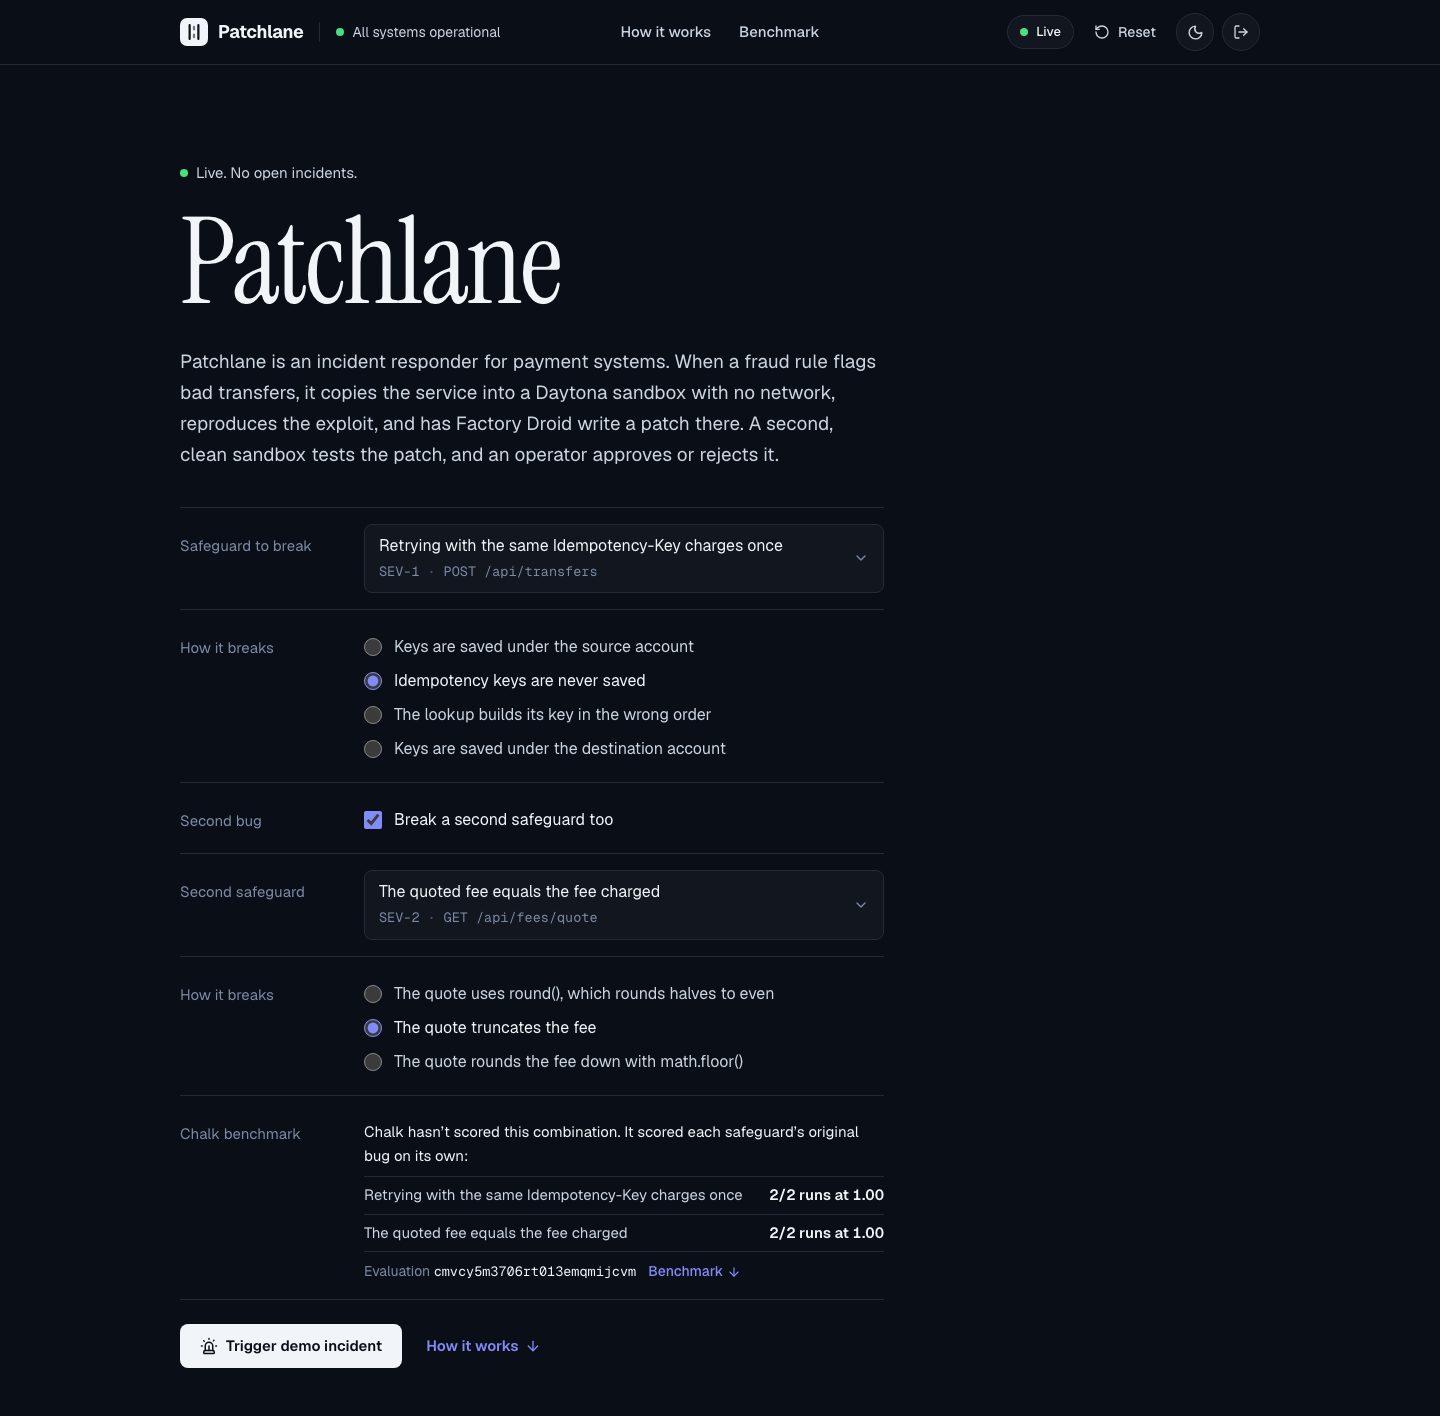
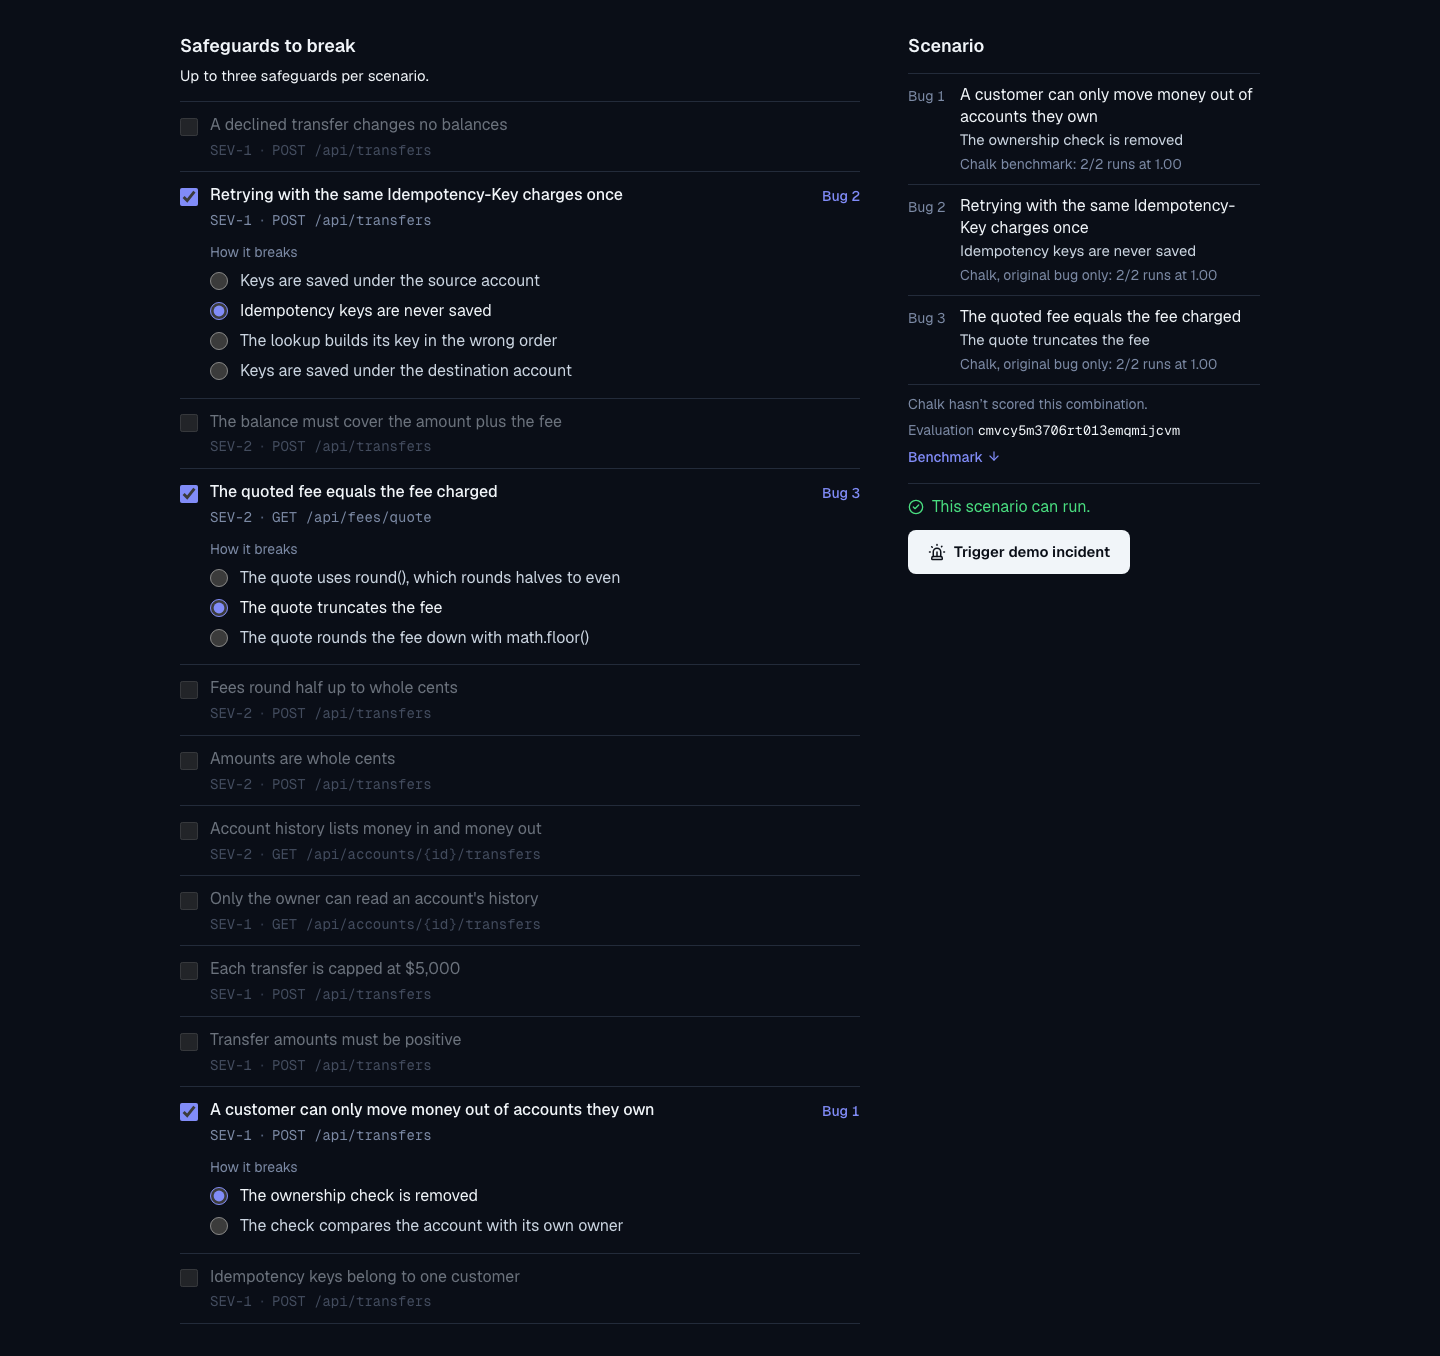
Document scenarios in the README with screenshots from a real run
The README describes the scenario checklist, how validate_scenarios.py
decides what can run, and the real-run results for pairs and sets of
three. New screenshots show the builder with three bugs, a refused
scenario with its reason, and a real three-bug incident waiting for
approval.

diff --git a/README.md b/README.md
@@ -158,32 +158,48 @@ Droid only sees the symptom, the evidence lines and the failing test. Seven of t
 
 </details>
 
-Beyond the original twelve bugs, there are 22 other ways to break the same safeguards (see [Build your own incident](#build-your-own-incident)). Each went through the same pipeline twice without Chalk scoring. 43 of the 44 runs verified with the fix in the right file. The other stopped when a Daytona command hung for more than 125 seconds. A sample of 12 two-bug pairs verified 12 of 12, with a median of 68.8 s; in every pair Droid fixed both files. Separately, 10 back-to-back runs of the full live pipeline through the API all reached approval, with a median of 55 s.
+Beyond the original twelve bugs, there are 22 other ways to break the same safeguards, and judges can combine up to three bugs in one scenario (see [Create your own scenario](#create-your-own-scenario)). Every way of breaking a safeguard went through the pipeline twice without Chalk scoring: 43 of 44 runs verified with the fix in the right file, and the other stopped when a Daytona command hung for more than 125 seconds. Samples of combined scenarios verified as well: 12 of 12 two-bug pairs (median 68.8 s) and 8 of 8 three-bug scenarios (median 74.5 s), with Droid fixing every bug's file each time. Separately, 10 back-to-back runs of the full live pipeline through the API all reached approval, with a median of 55 s.
 
-### Build your own incident
+### Create your own scenario
 
-Judges at the table can set up the incident themselves. In operator mode the dashboard has a small builder, and every control in it is a dropdown, a radio button or a checkbox:
+Judges at the table can build the incident themselves. In operator mode, the twelve safeguards the bank service enforces are a checklist, and every control is a checkbox or a radio button:
 
-1. **Safeguard to break**: one of the twelve rules the bank service enforces, such as "A customer can only move money out of accounts they own" or "A declined transfer changes no balances".
-2. **How it breaks**: one to five ways that rule can fail. For the transfer limit, the choices are that the limit compares dollars against cents, that the cap is scaled to $50,000 or to $500,000, that the check is never called, or that it is given the fee as the amount.
-3. **Break a second safeguard too**: a checkbox that adds a second safeguard and a second way it breaks, so Droid has two unrelated bugs to find in one incident.
+1. **Tick up to three safeguards to break**, such as "A customer can only move money out of accounts they own", "Retrying with the same Idempotency-Key charges once" and "The quoted fee equals the fee charged".
+2. **Choose how each one breaks.** Each safeguard has one to five realistic ways to fail. For the transfer limit, the choices are that the limit compares dollars against cents, that the cap is scaled to $50,000 or to $500,000, that the check is never called, or that it is given the fee as the amount.
+3. **Trigger it.** The scenario column says whether the combination can run before you press anything. When it can't, it says why, for example "These bugs change the same lines in bank_service/api.py."
 
 <p align="center">
   <picture>
     <source media="(prefers-color-scheme: dark)" srcset="docs/builder-dark.png" />
-    <img src="docs/builder-light.png" width="760" alt="The operator builder with two bugs chosen: idempotency keys are never saved, and the fee quote truncates the fee. Below it, each safeguard's Chalk benchmark result and a note that Chalk hasn't scored the combination." />
+    <img src="docs/builder-light.png" width="860" alt="The scenario builder with three safeguards ticked, each with its chosen break, and a scenario column listing the three bugs, their Chalk benchmark results and the note that this scenario can run" />
   </picture>
 </p>
 
-That's 34 single bugs and 499 pairs. Each choice is a small, fixed edit to the real source. Patchlane uploads the broken service to a fresh sandbox and Droid gets only the alerts and the evidence, never the labels the judge picked. Patchlane then runs the whole pipeline live, and the judge can watch the same sandbox ID appear in the Daytona dashboard. The builder also shows the Chalk benchmark result for each chosen safeguard. Chalk doesn't score live runs, and the dashboard says so next to the verdict.
+<p align="center">
+  <picture>
+    <source media="(prefers-color-scheme: dark)" srcset="docs/builder-refused-dark.png" />
+    <img src="docs/builder-refused-light.png" width="860" alt="A refused scenario: three bugs that all edit the same lines of bank_service/api.py, with the trigger button disabled and the reason shown in red" />
+  </picture>
+</p>
+
+That's 34 single bugs, 499 pairs and 4,143 sets of three. Each choice is a small, fixed edit to the real source. Patchlane uploads the broken service to a fresh sandbox with one incident test per bug, and Droid gets the alerts and evidence for every bug, never the labels the judge picked. The whole pipeline then runs live, and the judge can watch the same sandbox ID appear in the Daytona dashboard. The builder also shows the Chalk benchmark result for each chosen safeguard and says plainly that Chalk hasn't scored the combination, since Chalk doesn't score live runs.
+
+This is a real three-bug scenario run from the dashboard on Oct 17: the ownership check removed, idempotency keys never saved, and the fee quote truncated. Droid fixed all three files, and the clean sandbox passed 29 of 29 held-out tests 64 seconds after the trigger.
+
+<p align="center">
+  <picture>
+    <source media="(prefers-color-scheme: dark)" srcset="docs/incident3-dark.png" />
+    <img src="docs/incident3-light.png" width="860" alt="A three-bug incident waiting for approval: 0 of 14 attacks succeed after the patch, 29 of 29 held-out tests pass, 0 of 200 legitimate transfers blocked, with Droid's root cause naming all three bugs and three changed files" />
+  </picture>
+</p>
 
 The choices are locked down and tested:
 
-- `POST /api/demo/trigger` accepts exactly `{caseId, variantId, secondCaseId, secondVariantId}`. Extra fields, wrong types and malformed ids get a 422, unknown ids get a 404, and a pair outside the allowed list gets a 422. None of these touches the current incident.
+- `POST /api/demo/trigger` accepts exactly `{"bugs": [{caseId, variantId}, ...]}` with one to three bugs from different safeguards. Extra fields, wrong types and malformed ids get a 422, unknown ids get a 404, and a combination outside the validated list gets a 422 with its reason. None of these touches the current incident. `GET /api/scenarios/check` gives the dashboard the same answer before anything is triggered.
 - Operator actions run one at a time, so a double-clicked Trigger or Approve gets a 409 and changes nothing. The sign-in dialog checks the operator token with the server first and says plainly when it is incorrect.
 - `demo/validate_cases.py` checks every single bug before it can be offered. The clean service has to pass and the broken one has to fail the incident test and at least one held-out test. Each edit has to hit exactly one spot in one file under `bank_service/`, and the result has to parse. No label or root cause may appear anywhere in what gets uploaded.
-- `demo/validate_pairs.py` checks all 525 possible pairs. It merges the two bugs with `git merge-file`, and a pair is allowed only if both incident tests and at least one held-out test of each case fail, the transfer replay still behaves, and nothing about either bug reaches the upload. 499 pass. 14 conflict in the same lines and 12 hide each other, so those are never offered.
-- [`backend/tests/test_customization.py`](backend/tests/test_customization.py) runs 429 tests over all of this. It covers every single bug's sandbox tree and Droid prompt, a sample of pair trees and prompts, every refused pair, about twenty malformed requests, the double clicks, a reset in the middle of a run, and each of the twelve published recordings, which must be complete, resolved, verified and free of secrets.
+- `demo/validate_scenarios.py` checks all 525 pairs and 4,870 sets of three. It merges the bugs with `git merge-file`, and a scenario is allowed only if every incident test and at least one held-out test of each case fail, the transfer replay still behaves, and nothing about any bug reaches the upload. 4,642 pass. Of the 753 refused, 405 change the same lines and 348 hide one of the incidents. Each refusal keeps its reason, and that reason is what the dashboard shows.
+- [`backend/tests/test_customization.py`](backend/tests/test_customization.py) runs 519 tests over all of this. It covers every single bug's sandbox tree and Droid prompt, samples of pair and triple trees and prompts, refused scenarios and their reasons, about thirty malformed requests, the double clicks, a reset in the middle of a run, and each of the twelve published recordings, which must be complete, resolved, verified and free of secrets.
 
 ---
 
@@ -290,7 +306,7 @@ We looked at Capital One's Nessie API for the banking data and decided against i
 
 ## Run it yourself
 
-The fastest way to see it is the [live site](https://patchlane.khayrul.com). Visitors can replay a recorded run of any of the twelve cases with its original timing. Running live incidents needs the operator token, and the operator can build any of the 34 single-bug or 499 two-bug incidents to run against real Daytona sandboxes and a real Droid session.
+The fastest way to see it is the [live site](https://patchlane.khayrul.com). Visitors can replay a recorded run of any of the twelve cases with its original timing. Running live incidents needs the operator token, and the operator can build any of 4,676 scenarios (34 single bugs, 499 pairs and 4,143 sets of three) to run against real Daytona sandboxes and a real Droid session.
 
 <p align="center">
   <picture>
@@ -325,7 +341,7 @@ npm install
 npm run dev
 ```
 
-Open http://localhost:5173, click **Operator**, enter your token, choose a safeguard and how it breaks, then trigger it.
+Open http://localhost:5173, click **Operator**, enter your token, tick up to three safeguards, choose how each one breaks, then trigger the scenario.
 
 </details>
 
@@ -358,10 +374,10 @@ cd backend && ../.venv/bin/python -m app.benchmark.run --cases all --runs 2 --pa
 <summary><strong>Tests</strong></summary>
 
 ```bash
-cd backend && ../.venv/bin/python -m pytest -q          # 498 tests
+cd backend && ../.venv/bin/python -m pytest -q          # 588 tests
 cd demo/bank-service && python -m pytest -q             # 22 tests
 python demo/validate_cases.py                           # clean code passes, each bug fails, nothing leaks into uploads
-python demo/validate_pairs.py                           # rebuilds demo/cases/pairs.json, about a minute
+python demo/validate_scenarios.py                       # rebuilds demo/cases/scenarios.json, about 16 minutes on 8 workers
 ```
 
 CI runs the backend tests, the bank service tests, a frontend build and a Docker build on every push.
